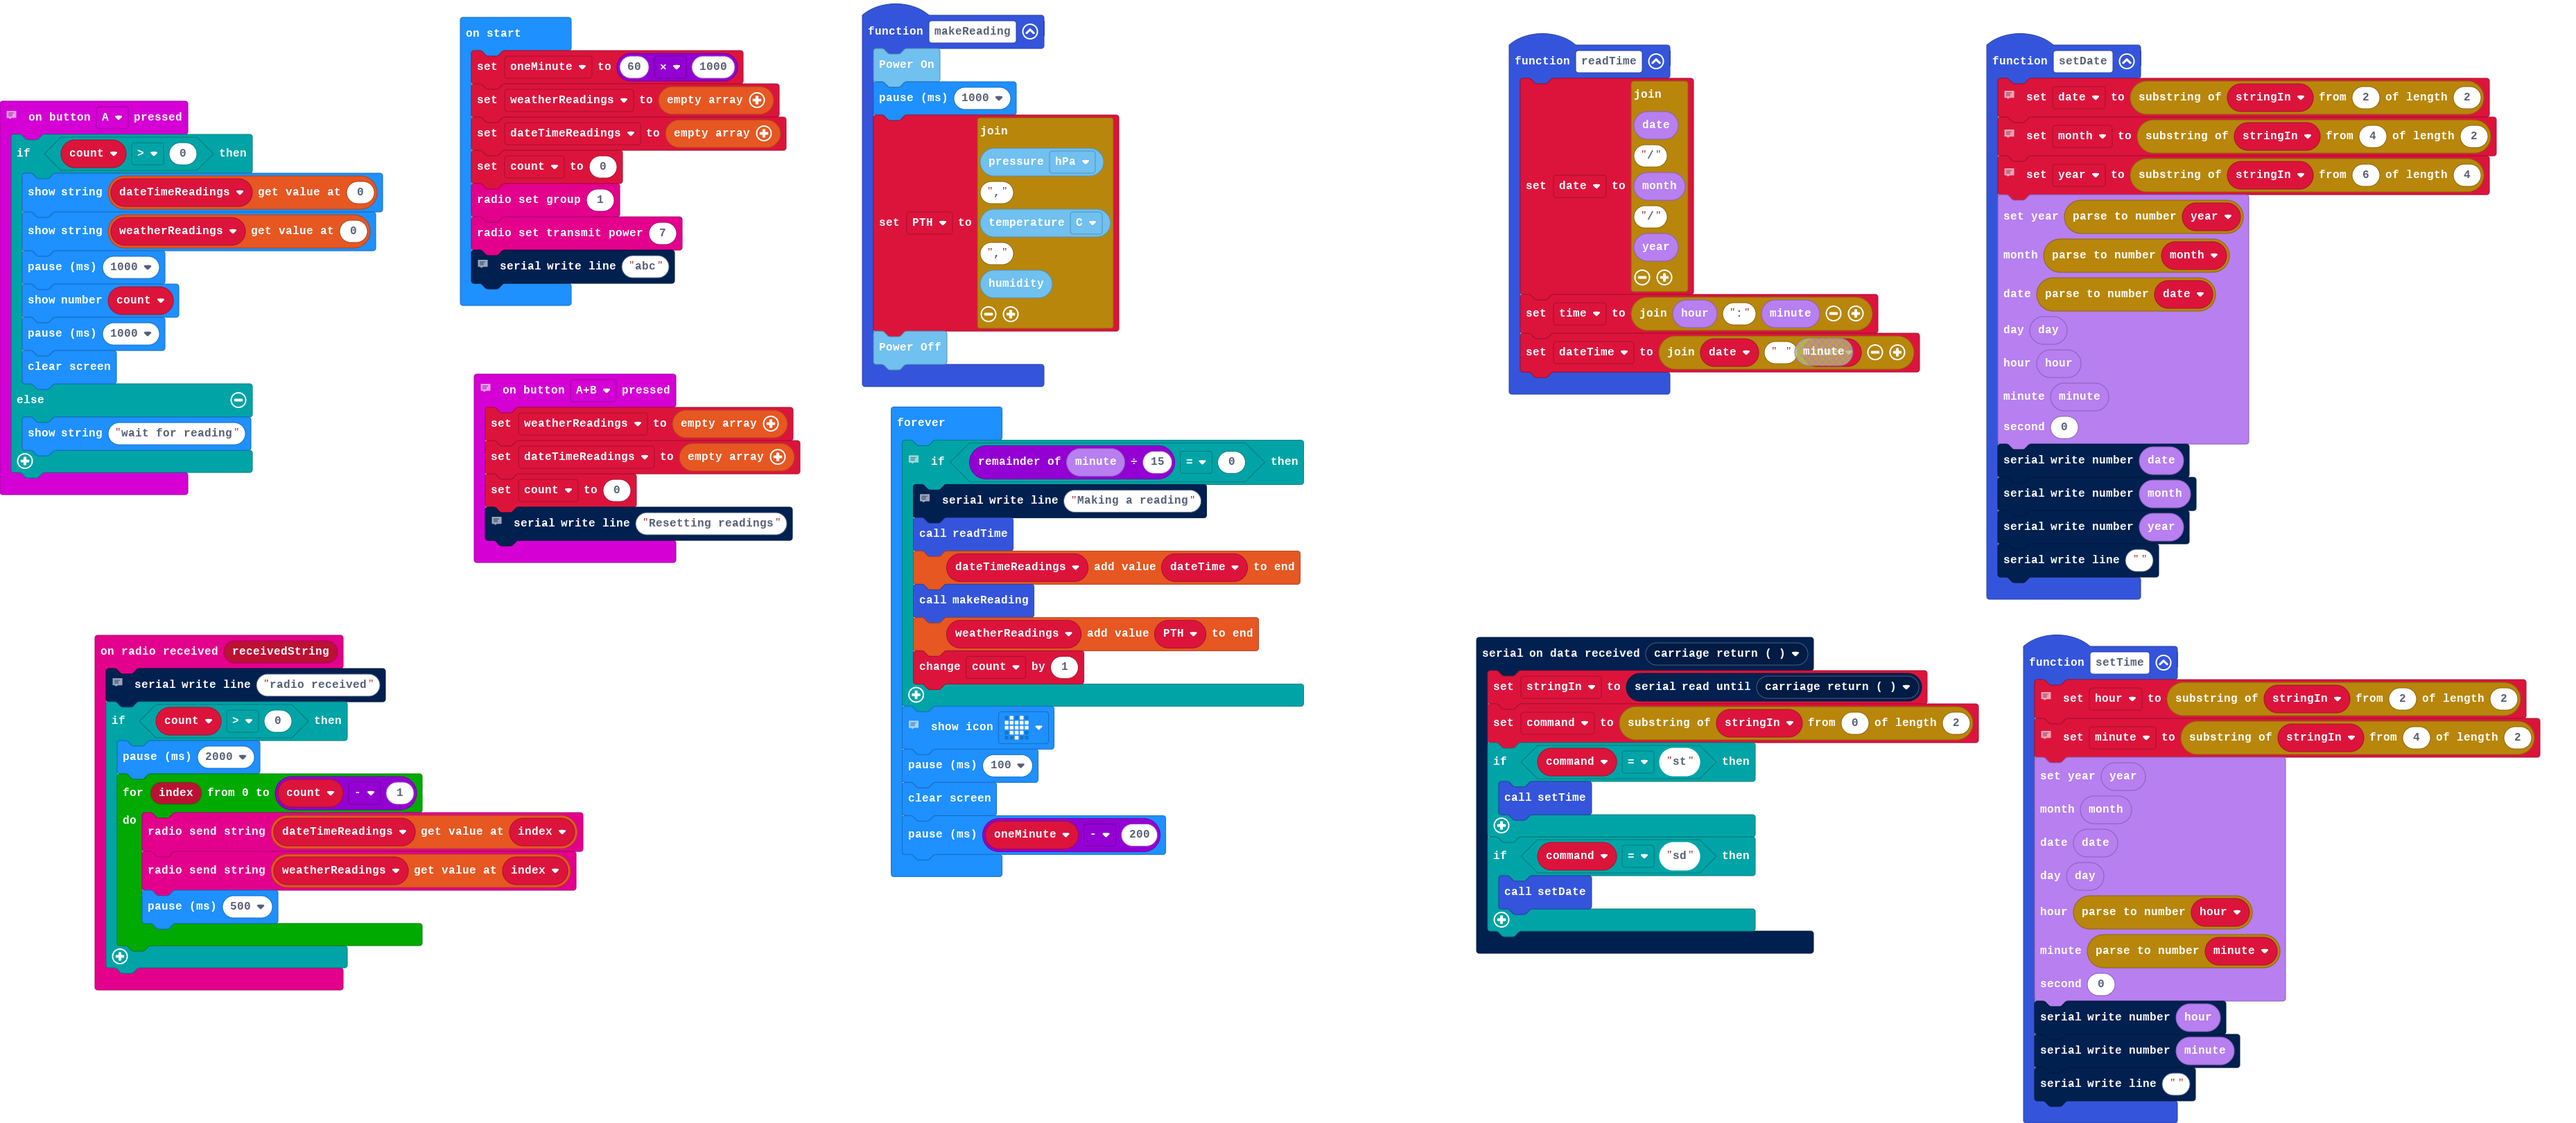
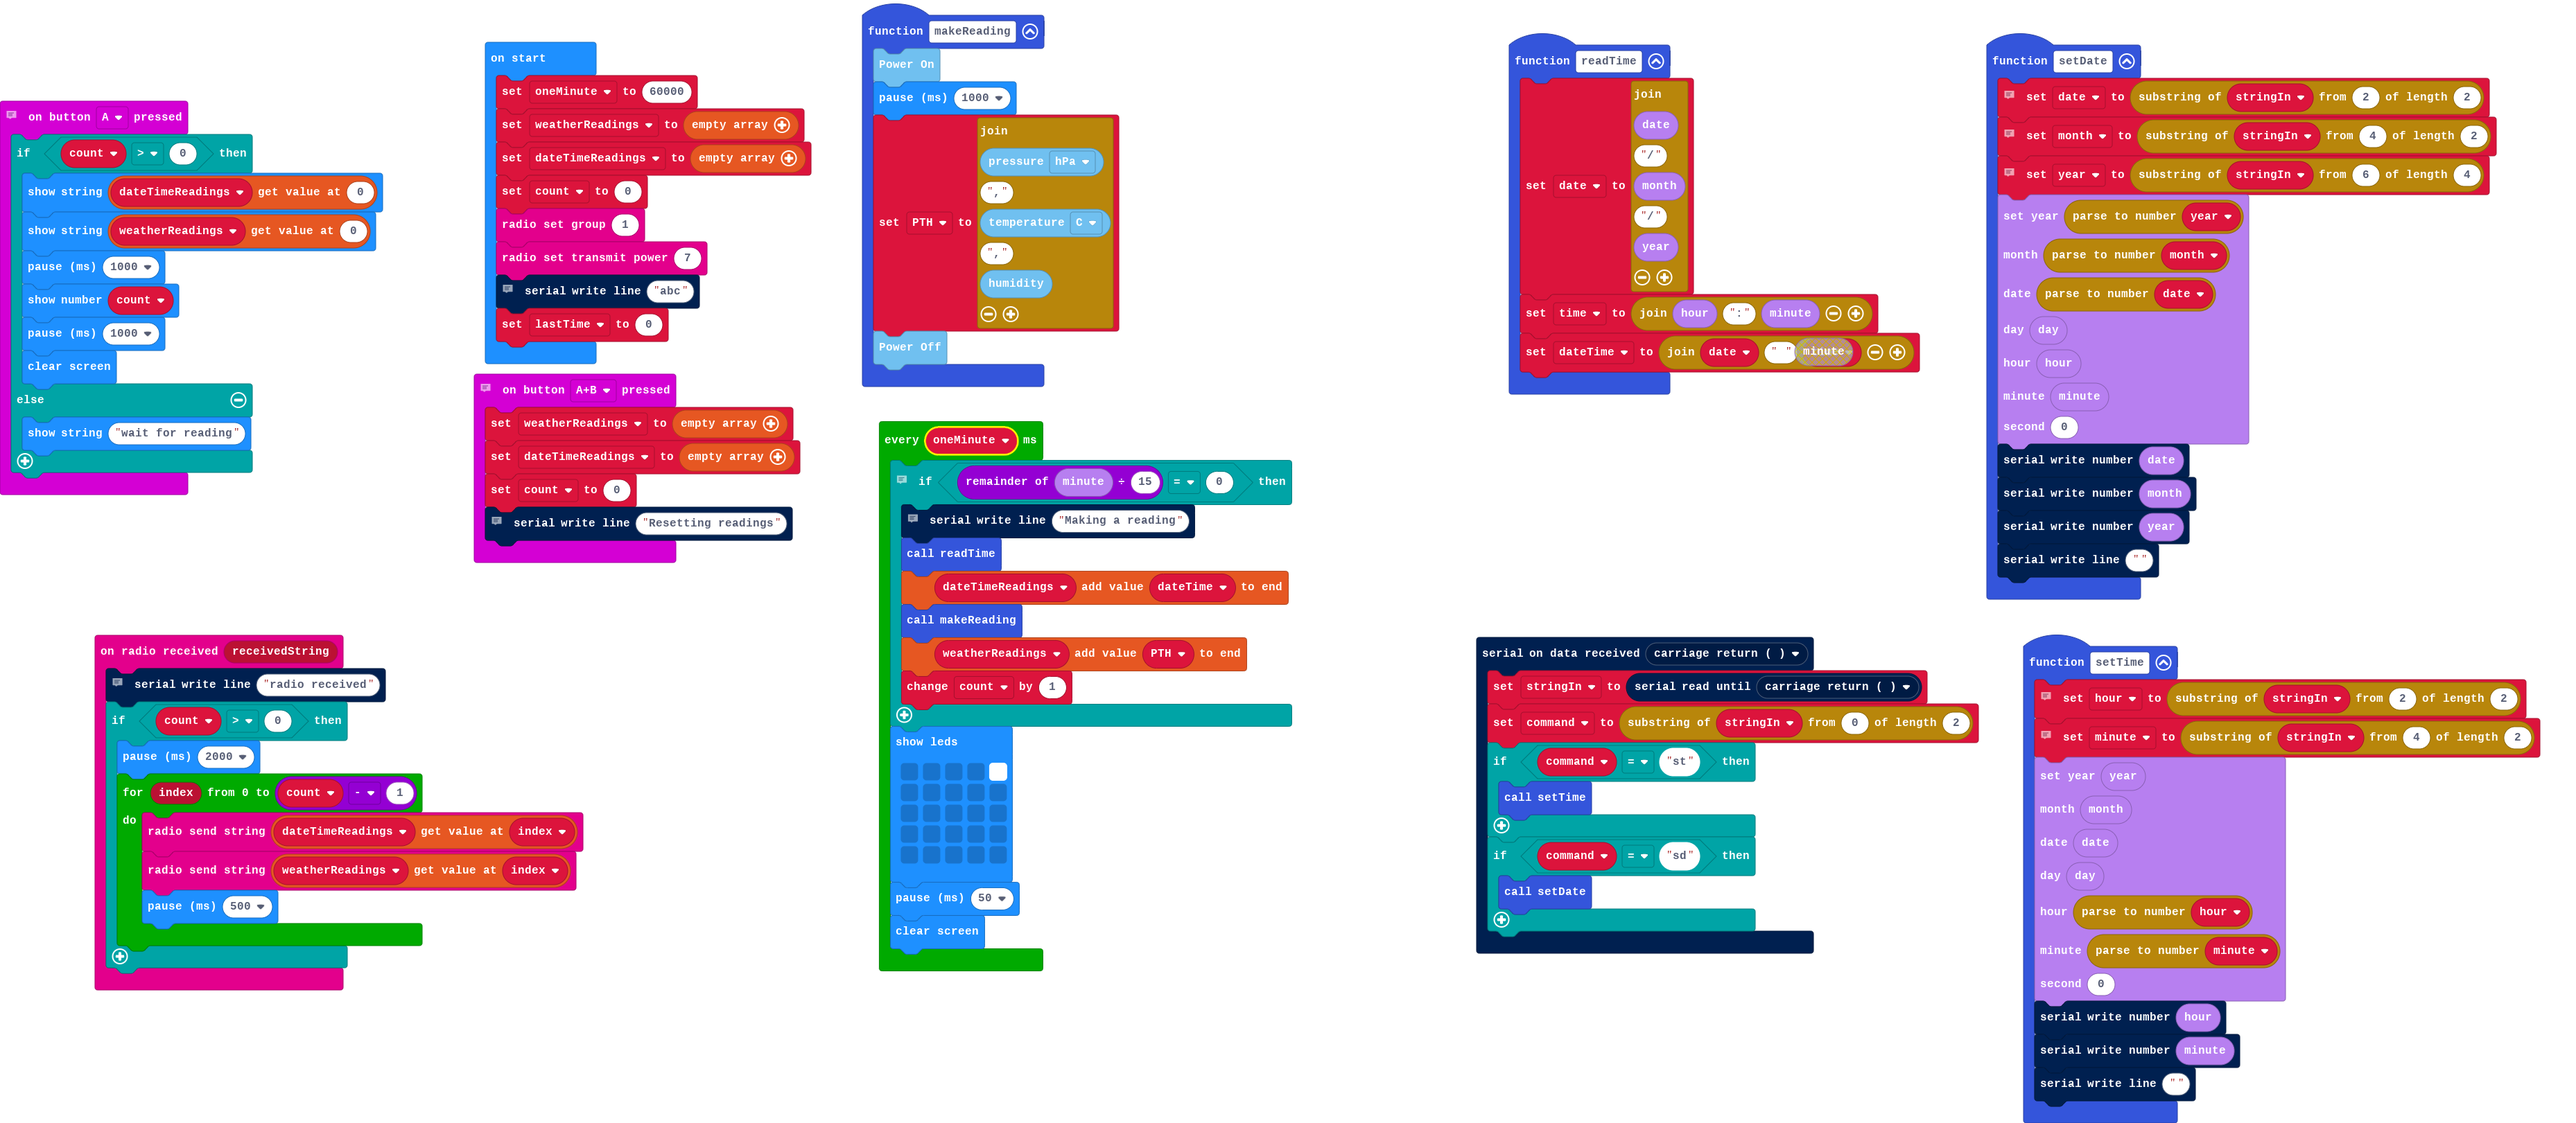
restored "every" block - bug was power supply

Changed region(s): [[0.3434, 0.3393, 0.5307, 0.8637], [0.1561, 0.0, 0.3122, 0.3393]]

diff --git a/main.ts b/main.ts
@@ -104,7 +104,7 @@ let date = ""
 let count = 0
 let dateTimeReadings: string[] = []
 let weatherReadings: string[] = []
-let oneMinute = 60 * 1000
+let oneMinute = 60000
 weatherReadings = []
 dateTimeReadings = []
 count = 0
@@ -112,7 +112,8 @@ radio.setGroup(1)
 radio.setTransmitPower(7)
 // Debug - start serial
 serial.writeLine("abc")
-basic.forever(function () {
+let lastTime = 0
+loops.everyInterval(oneMinute, function () {
     // Take readings once per hour
     if (DS3231.minute() % 15 == 0) {
         // Debug - make a reading
@@ -123,9 +124,13 @@ basic.forever(function () {
         weatherReadings.push(PTH)
         count += 1
     }
-    // Heartbeat every minute
-    basic.showIcon(IconNames.Heart)
-    basic.pause(100)
+    basic.showLeds(`
+        . . . . #
+        . . . . .
+        . . . . .
+        . . . . .
+        . . . . .
+        `)
+    basic.pause(50)
     basic.clearScreen()
-    basic.pause(oneMinute - 200)
 })
